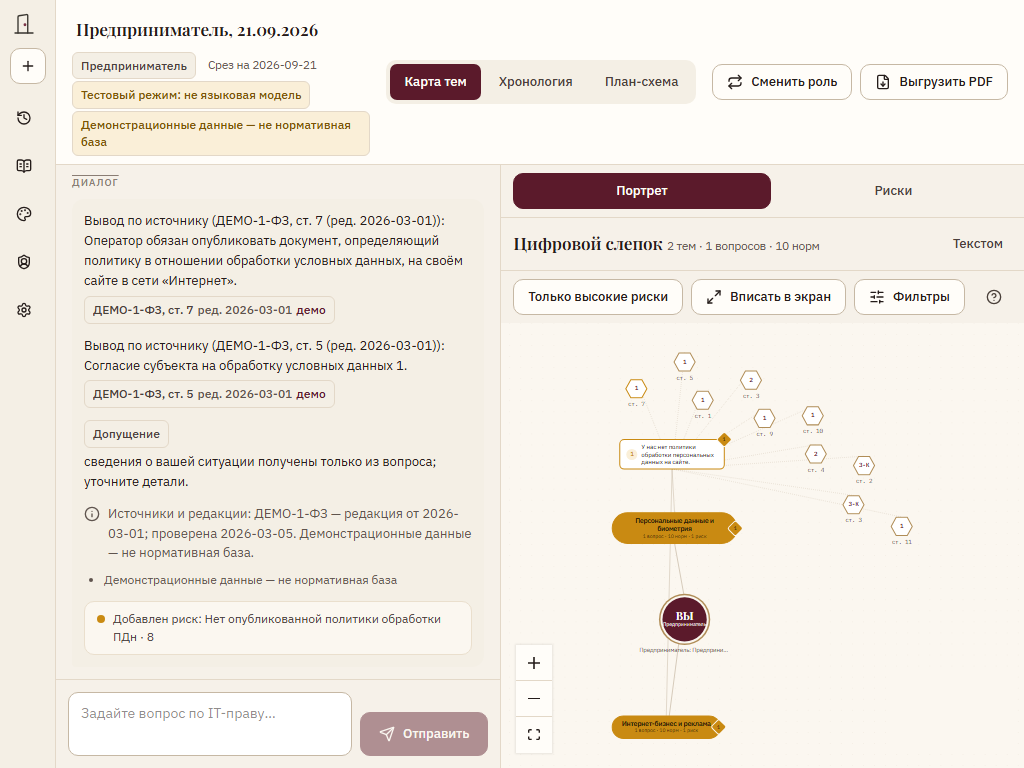
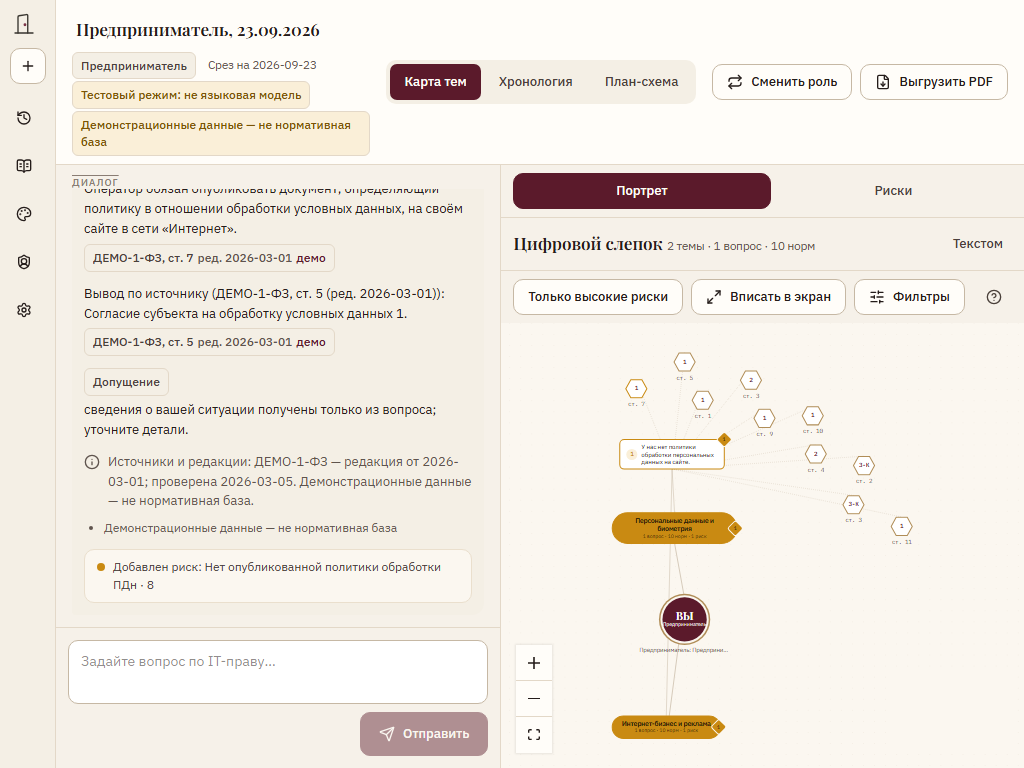
Браузерная проверка UI: местная дата среза, поле вопроса во всю зону, карта на узком экране, штриховка в тёмной теме
Найдено и исправлено при прогоне Playwright (desktop 1440 и мобильный 360):
- дата правового среза бралась из toISOString() (UTC) и до 03:00 по Москве подставляла вчерашний день — общий todayISO();
- поле вопроса сжималось до 140 px в зоне 300 px: кнопка «Отправить» перенесена под поле;
- карта в скрытой вкладке измерялась нулём и после показа оставалась пустой — повторный fitView по ResizeObserver;
- «2 тем · 1 вопросов» — согласование числительных через общий plural();
- оговорка об оценке дублировалась на плане и в рисках, когда обе зоны видны;
- при явно выбранной тёмной теме токены штриховки не задавались, и уровень кодировался только цветом;
- переключатель темы был доступен только на витрине компонентов — перенесён в «Настройки → О программе», зона нажатия доведена до 44 px;
- на узком экране режимы карты показывались на всех вкладках;
- форма смены пароля без скрытого имени пользователя (предупреждение Chrome).

Проверено: tsc, eslint, vitest 46, Playwright 13/13 (в тест адаптивности добавлены проверки масштаба карты и ширины поля).

Changed region(s): [[0.0625, 0.25, 0.4688, 0.9375], [0.6875, 0.3125, 0.8125, 0.3438], [0.25, 0.0312, 0.3125, 0.0625]]

diff --git a/frontend/src/features/settings/SettingsPage.tsx b/frontend/src/features/settings/SettingsPage.tsx
@@ -3,10 +3,12 @@ import { LogOut } from 'lucide-react'
 import { useState, type FormEvent, type ReactNode } from 'react'
 import { useNavigate } from 'react-router-dom'
 import { Banner, ErrorNote, Skeleton } from '../../components/States'
+import { ThemeToggle } from '../../components/ThemeToggle'
 import { Field } from '../../components/ui'
 import { useLocalState } from '../../lib/hooks'
 import { errorText, post, setCsrf } from '../../lib/api'
 import type { components } from '../../lib/api-types'
+import { useMe } from '../../app/App'
 import { useDiagnostics } from '../../lib/queries'
 
 function Row({ k, children }: { k: string; children: ReactNode }) {
@@ -17,6 +19,7 @@ const ok = (v: boolean | undefined) => (v ? 'Работает' : 'Недосту
 export function SettingsPage() {
   document.title = 'Настройки — DoorAIn'
   const d = useDiagnostics()
+  const me = useMe()
   const nav = useNavigate()
   const qc = useQueryClient()
   const [cur, setCur] = useState('')
@@ -35,6 +38,7 @@ export function SettingsPage() {
       <h1>Настройки</h1>
       <section aria-labelledby="diag" className="space-y-2">
         <h2 id="diag" className="text-h3">О программе</h2>
+        <div className="flex flex-wrap items-center gap-3"><span className="label">Тема оформления</span><ThemeToggle /></div>
         <label className="flex min-h-11 items-center gap-2 text-small"><input type="checkbox" className="size-4 accent-[var(--brand)]" checked={dev} onChange={(e) => setDev(e.target.checked)} />Режим разработчика — служебные метки (номер generation корпуса) в рабочем пространстве</label>
         {d.isLoading && <Skeleton lines={6} />}
         {d.isError && <ErrorNote error={d.error} onRetry={() => d.refetch()} />}
@@ -58,6 +62,8 @@ export function SettingsPage() {
       <section aria-labelledby="pw" className="space-y-3">
         <h2 id="pw" className="text-h3">Смена пароля</h2>
         <form onSubmit={submit} className="max-w-sm space-y-3">
+          {/* Скрытое имя пользователя: без него браузер и менеджер паролей не связывают форму с учётной записью. */}
+          <input className="sr-only" type="text" name="username" autoComplete="username" tabIndex={-1} aria-hidden readOnly value={me.data?.user.username ?? ''} />
           <Field id="cur" label="Текущий пароль"><input id="cur" className="input" type="password" autoComplete="current-password" value={cur} onChange={(e) => setCur(e.target.value)} required /></Field>
           <Field id="new" label="Новый пароль" hint="Не короче 12 символов. После смены все остальные сессии входа будут завершены."><input id="new" className="input" type="password" autoComplete="new-password" minLength={12} value={next} onChange={(e) => setNext(e.target.value)} required /></Field>
           {change.error && <Banner tone="error">{errorText(change.error)}</Banner>}

diff --git a/frontend/src/features/workspace/ChatPanel.tsx b/frontend/src/features/workspace/ChatPanel.tsx
@@ -197,14 +197,16 @@ export function ChatPanel({ session, draft, setDraft }: { session: Session; draf
         {modelBad && <div className="mb-2"><Banner tone="warn">Локальная модель сейчас недоступна: {status.data?.model.detail}. Вопрос будет сохранён, но ответ не сформируется. Облачный сервис не используется.</Banner></div>}
         {sendError != null && <div className="mb-2"><ErrorNote error={sendError} /></div>}
         {!online && <p className="mb-2 text-small text-risk-medium">Нет интернета — отправка отключена, введённый текст сохранён.</p>}
-        <div className="flex items-end gap-2">
+        <div className="flex flex-col gap-2">
           <label className="sr-only" htmlFor="composer">Ваш вопрос</label>
           <textarea id="composer" className="input max-h-40 min-h-[44px] resize-none" rows={2} maxLength={4000} value={draft} onChange={(e) => setDraft(e.target.value)} onKeyDown={onKey} placeholder="Задайте вопрос по IT-праву…" title="Enter — отправить, Shift+Enter — перенос строки" disabled={session.status !== 'active'} />
-          {running ? (
-            <Button variant="primary" className="h-11" onClick={() => cancel.mutate()} disabled={cancel.isPending} aria-label="Остановить генерацию"><Square className="size-4" aria-hidden />Стоп</Button>
-          ) : (
-            <Button variant="primary" className="h-11" onClick={submit} disabled={!draft.trim() || send.isPending || !online || session.status !== 'active'} aria-label="Отправить"><Send className="size-4" aria-hidden />Отправить</Button>
-          )}
+          <div className="flex justify-end">
+            {running ? (
+              <Button variant="primary" className="h-11" onClick={() => cancel.mutate()} disabled={cancel.isPending} aria-label="Остановить генерацию"><Square className="size-4" aria-hidden />Стоп</Button>
+            ) : (
+              <Button variant="primary" className="h-11" onClick={submit} disabled={!draft.trim() || send.isPending || !online || session.status !== 'active'} aria-label="Отправить"><Send className="size-4" aria-hidden />Отправить</Button>
+            )}
+          </div>
         </div>
         {(session.status !== 'active' || draft.length > 3500) && <p className="mt-1 text-xs text-muted">{session.status !== 'active' ? 'Сессия в архиве' : `${draft.length}/4000`}</p>}
       </div>

diff --git a/frontend/src/features/workspace/WorkspacePage.tsx b/frontend/src/features/workspace/WorkspacePage.tsx
@@ -20,7 +20,7 @@ import { SourceDrawer } from './SourceDrawer'
 export type PortraitMode = 'map' | 'timeline' | 'plan'
 const MODES: [PortraitMode, string][] = [['map', 'Карта тем'], ['timeline', 'Хронология'], ['plan', 'План-схема']]
 
-function TopBar({ session, mode, setMode, onExport, onQuiz }: { session: Session; mode: PortraitMode; setMode: (m: PortraitMode) => void; onExport: () => void; onQuiz: () => void }) {
+function TopBar({ session, mode, setMode, onExport, onQuiz, showModes = true }: { session: Session; mode: PortraitMode; setMode: (m: PortraitMode) => void; onExport: () => void; onQuiz: () => void; showModes?: boolean }) {
   const status = useStatus()
   const qc = useQueryClient()
   const nav = useNavigate()
@@ -57,11 +57,13 @@ function TopBar({ session, mode, setMode, onExport, onQuiz }: { session: Session
         </p>
         {rename.error && <p role="alert" className="text-small text-risk-high">{errorText(rename.error)}</p>}
       </div>
-      <div className="seg" role="tablist" aria-label="Режим портрета">
-        {MODES.map(([id, label]) => (
-          <button key={id} role="tab" className="seg-item" aria-selected={mode === id} onClick={() => setMode(id)}>{label}</button>
-        ))}
-      </div>
+      {showModes && (
+        <div className="seg" role="tablist" aria-label="Режим портрета">
+          {MODES.map(([id, label]) => (
+            <button key={id} role="tab" className="seg-item" aria-selected={mode === id} onClick={() => setMode(id)}>{label}</button>
+          ))}
+        </div>
+      )}
       <div className="flex flex-wrap items-center gap-2">
         {anySel && <Button variant="tertiary" onClick={clear}><X className="size-4" aria-hidden />Снять выделение</Button>}
         {session.role === 'student' && <Button onClick={onQuiz}><GraduationCap className="size-4" aria-hidden />Проверить себя</Button>}
@@ -130,7 +132,7 @@ function Inner({ session }: { session: Session }) {
   )
   return (
     <div className="flex h-full min-h-0 flex-col">
-      <TopBar session={session} mode={pmode} setMode={setPmode} onExport={() => setExportOpen(true)} onQuiz={() => setQuizOpen(true)} />
+      <TopBar session={session} mode={pmode} setMode={setPmode} onExport={() => setExportOpen(true)} onQuiz={() => setQuizOpen(true)} showModes={mode !== 'narrow' || tab === 'portrait'} />
       {mode === 'wide' && <ThreePanels chat={chat} portrait={portrait} risks={risks} />}
       {mode === 'mid' && (
         <div className="grid min-h-0 flex-1 grid-cols-[minmax(320px,46fr)_minmax(320px,54fr)]">

diff --git a/frontend/src/features/workspace/GraphView.tsx b/frontend/src/features/workspace/GraphView.tsx
@@ -16,6 +16,7 @@ import { useCallback, useEffect, useMemo, useRef, useState, type KeyboardEvent }
 import { HelpPopover } from '../../components/ui'
 import type { Graph, GraphNode, Level } from '../../lib/api'
 import { put } from '../../lib/api'
+import { todayISO } from '../../lib/date'
 import { useMessages, useRisks } from '../../lib/queries'
 import { LEVEL_ORDER, LEVEL_RU, ROLE_RU } from '../../lib/risk'
 import { nodesForRisk, riskIdsForNode, useSelection } from '../../lib/selection'
@@ -209,6 +210,19 @@ function Inner({ sessionId, graph }: { sessionId: string; graph: Graph }) {
   }, [graph, visible, marked])
 
   useEffect(() => { const t = window.setTimeout(() => rf.fitView({ padding: 0.15, duration: 0 }), 50); return () => window.clearTimeout(t) }, [rf, graph.nodes.length])
+  // Панель портрета на узком экране скрыта (display: none) и измеряется нулём: после показа карту вписываем заново.
+  useEffect(() => {
+    const el = box.current
+    if (!el) return
+    let shown = el.clientWidth > 0 && el.clientHeight > 0
+    const ro = new ResizeObserver(() => {
+      const now = el.clientWidth > 0 && el.clientHeight > 0
+      if (now && !shown) rf.fitView({ padding: 0.15, duration: 0 })
+      shown = now
+    })
+    ro.observe(el)
+    return () => ro.disconnect()
+  }, [rf])
   useEffect(() => {
     if (match.size !== 1) return
     const id = [...match][0]
@@ -241,7 +255,7 @@ function Inner({ sessionId, graph }: { sessionId: string; graph: Graph }) {
     const all = [...graph.edges, ...dialogThread(graph)]
     const svg = toSvg(visible, all, { ...layout, ...positions.current }, `DoorAIn — цифровой слепок, ${new Date().toLocaleDateString('ru-RU')}`)
     if (!svg) return
-    const stamp = new Date().toISOString().slice(0, 10)
+    const stamp = todayISO()
     if (fmt === 'svg') { download(`doorain-portrait-${stamp}.svg`, new Blob([svg], { type: 'image/svg+xml' })); return }
     const png = await svgToPng(svg)
     if (png) download(`doorain-portrait-${stamp}.png`, png)

diff --git a/tests/e2e/doorain.spec.ts b/tests/e2e/doorain.spec.ts
@@ -174,8 +174,19 @@ test('адаптивность: 390 / 768 / 1024 / 1440, без горизонт
       await page.getByRole('tab', { name: 'Риски' }).click()
       await expect(page.getByRole('button', { name: /Нет опубликованной политики/ }).first()).toBeVisible()
       await page.screenshot({ path: path.join(SHOTS, `risks-${w}.png`) })
+      // карта в скрытой вкладке измеряется нулём: после показа она должна быть вписана, а не сжата до предела
+      await page.getByRole('tab', { name: 'Портрет' }).click()
+      await page.waitForTimeout(600)
+      const zoom = await page.evaluate(() => Number(/scale\(([\d.]+)\)/.exec(document.querySelector('.react-flow__viewport')?.getAttribute('style') ?? '')?.[1] ?? 0))
+      expect(zoom, `масштаб карты на ${w}px`).toBeGreaterThan(0.2)
       await page.getByRole('tab', { name: 'Диалог' }).click()
     }
+    // поле вопроса занимает ширину своей зоны: кнопка отправки стоит строкой ниже
+    const composer = await page.evaluate(() => {
+      const el = document.querySelector('#composer') as HTMLElement
+      return { field: el.getBoundingClientRect().width, zone: (el.parentElement as HTMLElement).getBoundingClientRect().width }
+    })
+    expect(composer.field, `ширина поля вопроса на ${w}px`).toBeGreaterThan(composer.zone * 0.8)
     await page.screenshot({ path: path.join(SHOTS, `workspace-${w}.png`) })
   }
   // 200%: эмуляция уменьшением CSS-ширины вдвое от 1440

diff --git a/frontend/src/features/workspace/PortraitPanel.tsx b/frontend/src/features/workspace/PortraitPanel.tsx
@@ -6,6 +6,7 @@ import { useGraph, useRisks } from '../../lib/queries'
 import { NODE_KIND_RU, RESULT_RU } from '../../lib/risk'
 import { riskIdsForNode, useSelection } from '../../lib/selection'
 import { GraphView } from './GraphView'
+import { plural } from './graphModel'
 
 import type { PortraitMode } from './WorkspacePage'
 import { PlanPanel } from './PlanPanel'
@@ -62,7 +63,7 @@ export function PortraitPanel({ session, mode }: { session: Session; mode: Portr
   return (
     <div className="flex h-full min-h-0 flex-col">
       <div className="flex items-center justify-between gap-2 border-b border-line px-3 py-2">
-        <h2 className="display-s">Цифровой слепок <span className="caption font-normal">{graph.data ? `${graph.data.nodes.filter((n) => n.kind === 'topic').length} тем · ${questions} вопросов · ${graph.data.nodes.filter((n) => n.kind === 'norm').length} норм` : ''}</span></h2>
+        <h2 className="display-s">Цифровой слепок <span className="caption whitespace-nowrap font-normal">{graph.data ? [plural(graph.data.nodes.filter((n) => n.kind === 'topic').length, 'тема', 'темы', 'тем'), plural(questions, 'вопрос', 'вопроса', 'вопросов'), plural(graph.data.nodes.filter((n) => n.kind === 'norm').length, 'норма', 'нормы', 'норм')].join(' · ') : ''}</span></h2>
         {mode === 'map' && <button className="btn btn-tertiary" aria-pressed={text} onClick={() => setText(!text)}>{text ? 'Показать карту' : 'Текстом'}</button>}
       </div>
       <div className="min-h-0 flex-1" aria-label="Портрет сессии">

diff --git a/frontend/src/features/workspace/PlanPanel.tsx b/frontend/src/features/workspace/PlanPanel.tsx
@@ -3,6 +3,7 @@ import { useState } from 'react'
 import { EmptyState, ErrorNote, Skeleton } from '../../components/States'
 import type { Level, PlanStep, Risk, Session } from '../../lib/api'
 import { del, errorText, get, patch, post } from '../../lib/api'
+import { useLayoutMode } from '../../lib/hooks'
 import { keys, useRisks } from '../../lib/queries'
 import { LEVEL_RU } from '../../lib/risk'
 import { useSelection } from '../../lib/selection'
@@ -106,6 +107,7 @@ function OwnSteps({ sessionId }: { sessionId: string }) {
  *  Отметка шага закрывает риск и перекрашивает граф без перезагрузки. */
 export function PlanPanel({ session }: { session: Session }) {
   const risks = useRisks(session.id)
+  const mode = useLayoutMode()
   if (risks.isLoading) return <div className="p-3"><Skeleton lines={5} /></div>
   if (risks.isError) return <div className="p-3"><ErrorNote error={risks.error} onRetry={() => risks.refetch()} /></div>
   const data = risks.data
@@ -151,7 +153,7 @@ export function PlanPanel({ session }: { session: Session }) {
         )
       })}
       <OwnSteps sessionId={session.id} />
-      <p className="caption">Оценка носит информационный характер и не является юридическим заключением.</p>
+      {mode !== 'wide' && <p className="caption">Оценка носит информационный характер и не является юридическим заключением.</p>}
     </div>
   )
 }

diff --git a/frontend/src/features/kb/KnowledgeBasePage.tsx b/frontend/src/features/kb/KnowledgeBasePage.tsx
@@ -5,6 +5,7 @@ import { Banner, EmptyState, ErrorNote, Skeleton } from '../../components/States
 import { Button, Field, Spinner } from '../../components/ui'
 import type { ConfirmImport, Doc, Draft, SearchHit } from '../../lib/api'
 import { ApiError, del, errorText, get, patch, post } from '../../lib/api'
+import { todayISO } from '../../lib/date'
 import { keys, useCorpus, useDocuments, useJobs, useManifest } from '../../lib/queries'
 
 const STATE_RU: Record<string, string> = { missing: 'Нет', imported: 'Импортирован', indexed: 'Проиндексирован', verified: 'Проверен' }
@@ -200,7 +201,7 @@ export function KnowledgeBasePage() {
                   <span className="chip">{STATE_RU[r.corpus_state]}</span>
                   <span className="text-muted">фрагментов: {r.chunk_count}</span>
                   {r.verified_at ? <span className="chip risk-low">проверена {r.verified_at}</span> : (
-                    <button type="button" className="chip" onClick={() => verify.mutate({ id: r.id, date: new Date().toISOString().slice(0, 10) })}>Отметить проверенной сегодня</button>
+                    <button type="button" className="chip" onClick={() => verify.mutate({ id: r.id, date: todayISO() })}>Отметить проверенной сегодня</button>
                   )}
                   <a href={`/api/v1/revisions/${r.id}/file`} download>оригинал</a>
                 </li>

diff --git a/frontend/src/features/welcome/WelcomePage.tsx b/frontend/src/features/welcome/WelcomePage.tsx
@@ -5,6 +5,7 @@ import { Banner } from '../../components/States'
 import { Field } from '../../components/ui'
 import type { Role, Session } from '../../lib/api'
 import { errorText, post } from '../../lib/api'
+import { todayISO } from '../../lib/date'
 import { useSessions } from '../../lib/queries'
 import { ROLE_RU } from '../../lib/risk'
 
@@ -23,7 +24,7 @@ export function WelcomePage() {
   const recent = useSessions('active')
   const [role, setRole] = useState<Role>('entrepreneur')
   const [title, setTitle] = useState('')
-  const [asOf, setAsOf] = useState(() => new Date().toISOString().slice(0, 10))
+  const [asOf, setAsOf] = useState(todayISO)
   const [profile, setProfile] = useState({ sphere: '', has_site_or_app: 'unknown' as Tri, processes_pd: 'unknown' as Tri, mailings: 'unknown' as Tri, servers_location: 'unknown' as 'ru' | 'abroad' | 'both' | 'unknown' })
   const create = useMutation({
     mutationFn: () => post<Session>('/sessions', { role, title: title || null, as_of_date: asOf || null, profile: role === 'entrepreneur' ? { ...profile, sphere: profile.sphere || null } : null }),

diff --git a/frontend/src/styles/tokens.css b/frontend/src/styles/tokens.css
@@ -127,11 +127,9 @@
     --risk-critical: #c2506a;
     --risk-critical-tint: #331d24;
     --on-risk-mid: #1c1409;
-  --hatch-dark: rgba(242, 235, 224, 0.2);
-  --hatch-light: rgba(23, 18, 15, 0.3);
-  --risk-mid-ink: #e3a62b;
     --hatch-dark: rgba(242, 235, 224, 0.2);
     --hatch-light: rgba(23, 18, 15, 0.3);
+    --risk-mid-ink: #e3a62b;
   --chip-norm-ink: var(--gold);
     --shadow-hover: 0 6px 16px rgba(0, 0, 0, 0.45);
   }
@@ -168,6 +166,8 @@
   --risk-critical: #c2506a;
   --risk-critical-tint: #331d24;
   --on-risk-mid: #1c1409;
+  --hatch-dark: rgba(242, 235, 224, 0.2);
+  --hatch-light: rgba(23, 18, 15, 0.3);
   --risk-mid-ink: #e3a62b;
   --chip-norm-ink: var(--gold);
   --shadow-hover: 0 6px 16px rgba(0, 0, 0, 0.45);

diff --git a/frontend/src/components/ThemeToggle.tsx b/frontend/src/components/ThemeToggle.tsx
@@ -12,7 +12,7 @@ export function ThemeToggle() {
   return (
     <div className="seg" role="group" aria-label="Тема оформления">
       {OPTIONS.map(([id, label, Icon]) => (
-        <button key={id} type="button" className="seg-item !px-2" aria-pressed={theme === id} aria-label={label} title={label} onClick={() => setTheme(id)}>
+        <button key={id} type="button" className="seg-item min-w-11 justify-center" aria-pressed={theme === id} aria-label={label} title={label} onClick={() => setTheme(id)}>
           <Icon className="size-4" aria-hidden />
         </button>
       ))}

diff --git a/frontend/src/features/workspace/graphModel.ts b/frontend/src/features/workspace/graphModel.ts
@@ -30,7 +30,7 @@ export function topicCounters(graph: Graph): Map<string, TopicCounters> {
   return out
 }
 
-const plural = (n: number, one: string, few: string, many: string) => {
+export const plural = (n: number, one: string, few: string, many: string) => {
   const m10 = n % 10, m100 = n % 100
   return `${n} ${m10 === 1 && m100 !== 11 ? one : m10 >= 2 && m10 <= 4 && (m100 < 12 || m100 > 14) ? few : many}`
 }
